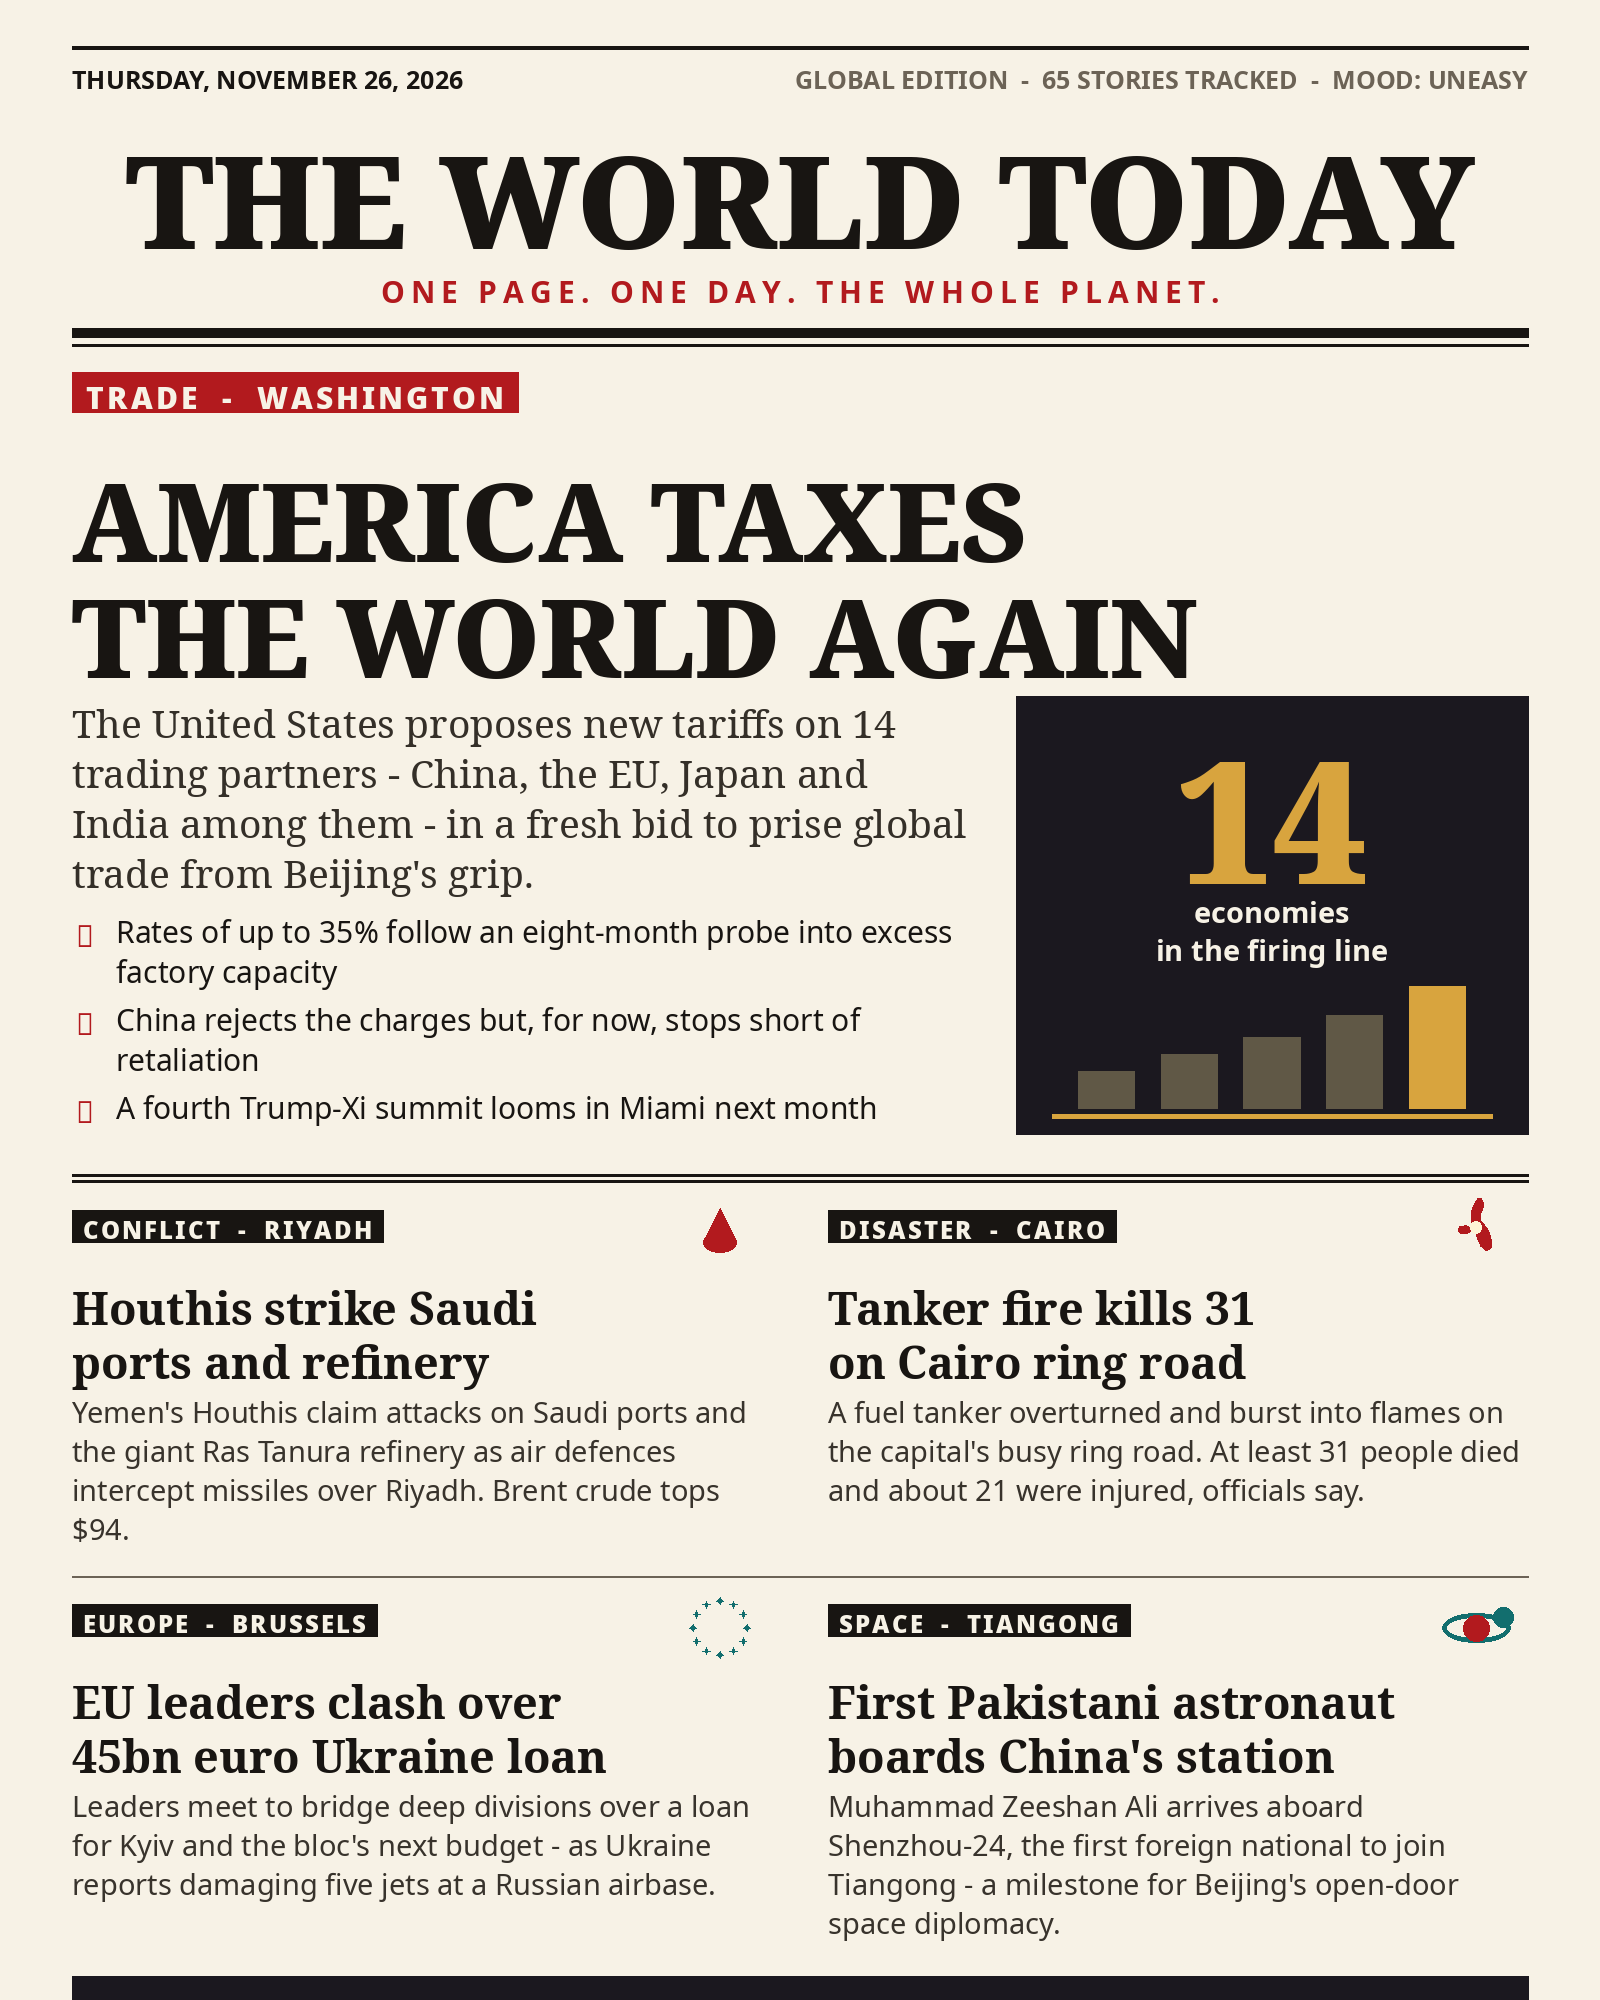
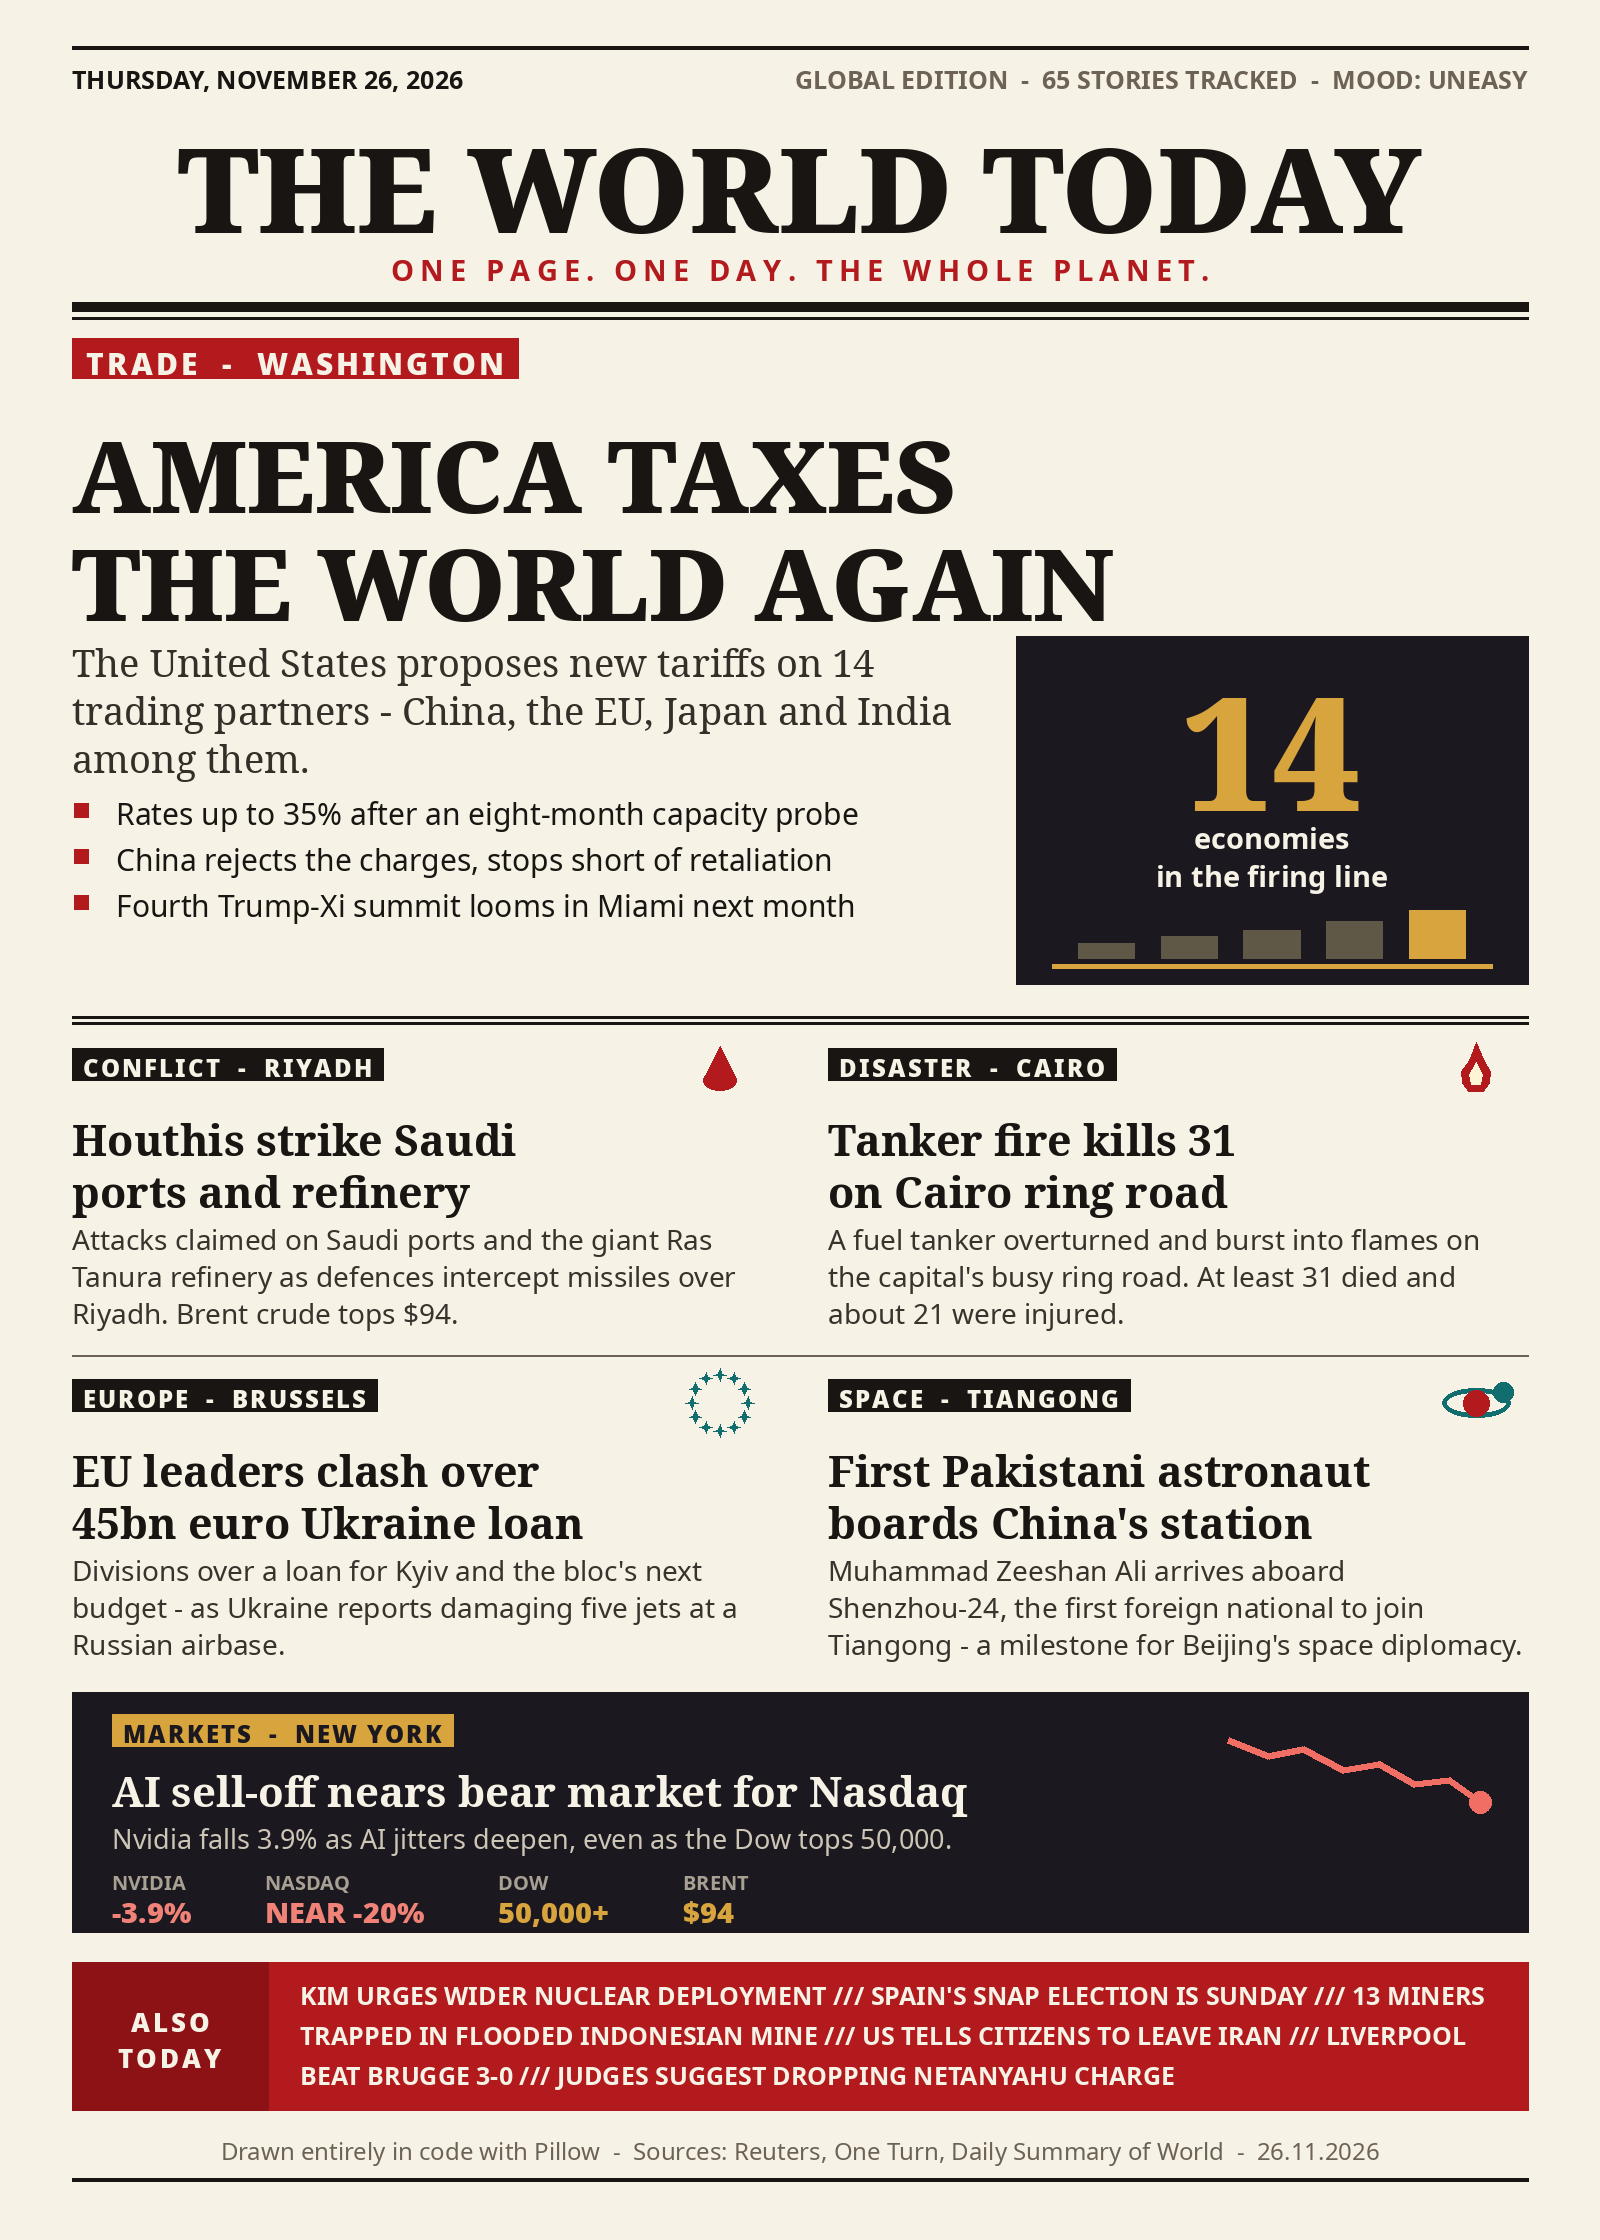
Quality pass 2: taller canvas, one-line markets headline, complete 3-line ticker

diff --git a/main.py b/main.py
@@ -11,7 +11,7 @@ from PIL import Image, ImageDraw
 import content
 import render as R
 
-W, H = 1600, 2000
+W, H = 1600, 2240
 MARGIN = 72
 CW = W - MARGIN * 2
 
@@ -71,7 +71,8 @@ def lead(d, y):
         y_text += 6
     panel_x = MARGIN + col_w + 44
     panel_w = W - MARGIN - panel_x
-    d.rectangle([panel_x, y, W - MARGIN, y_text], fill=DARK)
+    panel_bottom = max(y_text, y + 348)
+    d.rectangle([panel_x, y, W - MARGIN, panel_bottom], fill=DARK)
     num_f = R.font("serif_black", 158)
     num = lead["big_number"]
     tw = R.text_width(d, num, num_f)
@@ -82,8 +83,8 @@ def lead(d, y):
         tw = R.text_width(d, line, lab_f)
         d.text((panel_x + (panel_w - tw) / 2, ly), line, font=lab_f, fill=CREAM)
         ly += 38
-    R.tariff_bars(d, (panel_x + 36, ly + 14, W - MARGIN - 36, y_text - 24), GOLD, (96, 88, 70))
-    return y_text + 32
+    R.tariff_bars(d, (panel_x + 36, ly + 16, W - MARGIN - 36, panel_bottom - 26), GOLD, (96, 88, 70))
+    return panel_bottom + 32
 
 
 def story_cell(d, x, y, w, story):
@@ -129,43 +130,41 @@ def story_grid(d, y):
 
 def markets(d, y):
     m = content.MARKETS
-    d.rectangle([MARGIN, y, W - MARGIN, y + 218], fill=DARK)
+    d.rectangle([MARGIN, y, W - MARGIN, y + 240], fill=DARK)
     x = MARGIN + 40
     chip_f = R.font("sans_black", 24)
-    R.kicker_tag(d, (x, y + 24), m["kicker"], GOLD, DARK, chip_f, pad_x=11, pad_y=6, tracking=2)
-    head_f = R.font("serif_bold", 45)
-    lines = R.wrap(d, m["headline"], head_f, 950)
-    yy = R.draw_lines(d, (x, y + 74), lines, head_f, CREAM, 54)
+    R.kicker_tag(d, (x, y + 22), m["kicker"], GOLD, DARK, chip_f, pad_x=11, pad_y=6, tracking=2)
+    head_f = R.font("serif_bold", 42)
+    d.text((x, y + 70), m["headline"], font=head_f, fill=CREAM)
     body_f = R.font("sans", 27)
-    blines = R.wrap(d, m["body"], body_f, 950)
-    yy = R.draw_lines(d, (x, yy + 4), blines, body_f, (205, 198, 182), 35)
-    R.sparkline_down(d, (W - MARGIN - 330, y + 46, W - MARGIN - 50, y + 138), (240, 110, 100))
+    d.text((x, y + 128), m["body"], font=body_f, fill=(205, 198, 182))
+    R.sparkline_down(d, (W - MARGIN - 300, y + 40, W - MARGIN - 48, y + 120), (240, 110, 100))
     stat_f = R.font("sans_black", 29)
     lab_f = R.font("sans_bold", 20)
     sx = x
     for label, value in m["stats"]:
-        d.text((sx, y + 172), value, font=stat_f, fill=GOLD if value in ("50,000+", "$94") else (240, 130, 120))
-        d.text((sx, y + 146), label, font=lab_f, fill=(168, 160, 146))
+        d.text((sx, y + 176), label, font=lab_f, fill=(168, 160, 146))
+        d.text((sx, y + 200), value, font=stat_f, fill=GOLD if value in ("50,000+", "$94") else (240, 130, 120))
         sx += R.text_width(d, value, stat_f) + 74
-    return y + 218 + 30
+    return y + 240 + 30
 
 
 def ticker(d, y):
     items = "   ///   ".join(content.TICKER)
-    d.rectangle([MARGIN, y, W - MARGIN, y + 112], fill=RED)
+    d.rectangle([MARGIN, y, W - MARGIN, y + 148], fill=RED)
     lab_f = R.font("sans_black", 26)
-    d.rectangle([MARGIN, y, MARGIN + 196, y + 112], fill=RED_DARK)
+    d.rectangle([MARGIN, y, MARGIN + 196, y + 148], fill=RED_DARK)
     tw = R.tracked_width(d, "ALSO", lab_f, 3)
-    R.tracked_text(d, (MARGIN + (196 - tw) / 2, y + 24), "ALSO", lab_f, CREAM, 3)
+    R.tracked_text(d, (MARGIN + (196 - tw) / 2, y + 42), "ALSO", lab_f, CREAM, 3)
     tw = R.tracked_width(d, "TODAY", lab_f, 3)
-    R.tracked_text(d, (MARGIN + (196 - tw) / 2, y + 58), "TODAY", lab_f, CREAM, 3)
-    body_f = R.font("sans_bold", 26)
+    R.tracked_text(d, (MARGIN + (196 - tw) / 2, y + 78), "TODAY", lab_f, CREAM, 3)
+    body_f = R.font("sans_bold", 25)
     lines = R.wrap(d, items, body_f, CW - 196 - 68)
-    yy = y + 18
-    for line in lines[:2]:
+    yy = y + 16
+    for line in lines[:3]:
         d.text((MARGIN + 228, yy), line, font=body_f, fill=CREAM)
-        yy += 38
-    return y + 112 + 24
+        yy += 40
+    return y + 148 + 24
 
 
 def footer(d, y):

diff --git a/content.py b/content.py
@@ -72,11 +72,8 @@ STORIES = [
 
 MARKETS = {
     "kicker": "MARKETS  -  NEW YORK",
-    "headline": "AI sell-off drags Nasdaq toward a bear market",
-    "body": (
-        "Selling in AI-linked stocks deepens - Nvidia falls 3.9% - "
-        "even as the Dow closes above 50,000 for the first time."
-    ),
+    "headline": "AI sell-off nears bear market for Nasdaq",
+    "body": "Nvidia falls 3.9% as AI jitters deepen, even as the Dow tops 50,000.",
     "stats": [
         ("NVIDIA", "-3.9%"),
         ("NASDAQ", "NEAR -20%"),
@@ -86,12 +83,12 @@ MARKETS = {
 }
 
 TICKER = [
-    "KIM JONG UN URGES WIDER TACTICAL NUCLEAR DEPLOYMENT",
-    "SPAIN VOTES SUNDAY IN SNAP ELECTION",
-    "RESCUERS RACE TO REACH 13 MINERS TRAPPED IN INDONESIA",
-    "US TELLS CITIZENS TO LEAVE IRAN AS WAR FEARS GROW",
-    "LIVERPOOL BEAT CLUB BRUGGE 3-0 IN CHAMPIONS LEAGUE",
-    "JUDGES SUGGEST DROPPING TOP NETANYAHU CHARGE",
+    "KIM URGES WIDER NUCLEAR DEPLOYMENT",
+    "SPAIN'S SNAP ELECTION IS SUNDAY",
+    "13 MINERS TRAPPED IN FLOODED INDONESIAN MINE",
+    "US TELLS CITIZENS TO LEAVE IRAN",
+    "LIVERPOOL BEAT BRUGGE 3-0",
+    "JUDGES SUGGEST DROPPING NETANYAHU CHARGE",
 ]
 
 FOOTER = "Drawn entirely in code with Pillow  -  Sources: Reuters, One Turn, Daily Summary of World  -  26.11.2026"

diff --git a/README.md b/README.md
@@ -1,0 +1,30 @@
+# The World Today - 26 November 2026 in one image
+
+A newspaper front page that sums up Thursday, 26 November 2026,
+rendered entirely in code with Pillow. No image assets, no network,
+fully deterministic: the same code always draws the same page.
+
+## Run
+
+    python3 main.py
+
+Writes `out/entry.png` (1600 x 2240). The committed `entry.png` at the
+repository root is that exact render.
+
+## Layout
+
+- `main.py` - entrypoint and page composition (masthead, lead story,
+  story grid, markets band, ticker, footer)
+- `content.py` - the day's editorial content, cross-checked on the day
+  against Reuters, One Turn's day report and the Daily Summary of World
+- `render.py` - drawing toolkit: font resolution with fallbacks, text
+  wrapping, tracked kickers, hand-drawn icons and charts
+
+## The day it sums up
+
+Lead: the US proposes new tariffs on 14 trading partners. Also on the
+page: Houthi strikes on Saudi ports and the Ras Tanura refinery, the
+Cairo ring-road tanker fire (31 dead), EU leaders clashing over a
+45bn euro Ukraine loan, the AI sell-off pushing the Nasdaq toward a
+bear market, and the first Pakistani astronaut boarding China's
+Tiangong station - plus a six-item ticker of the day's other stories.
